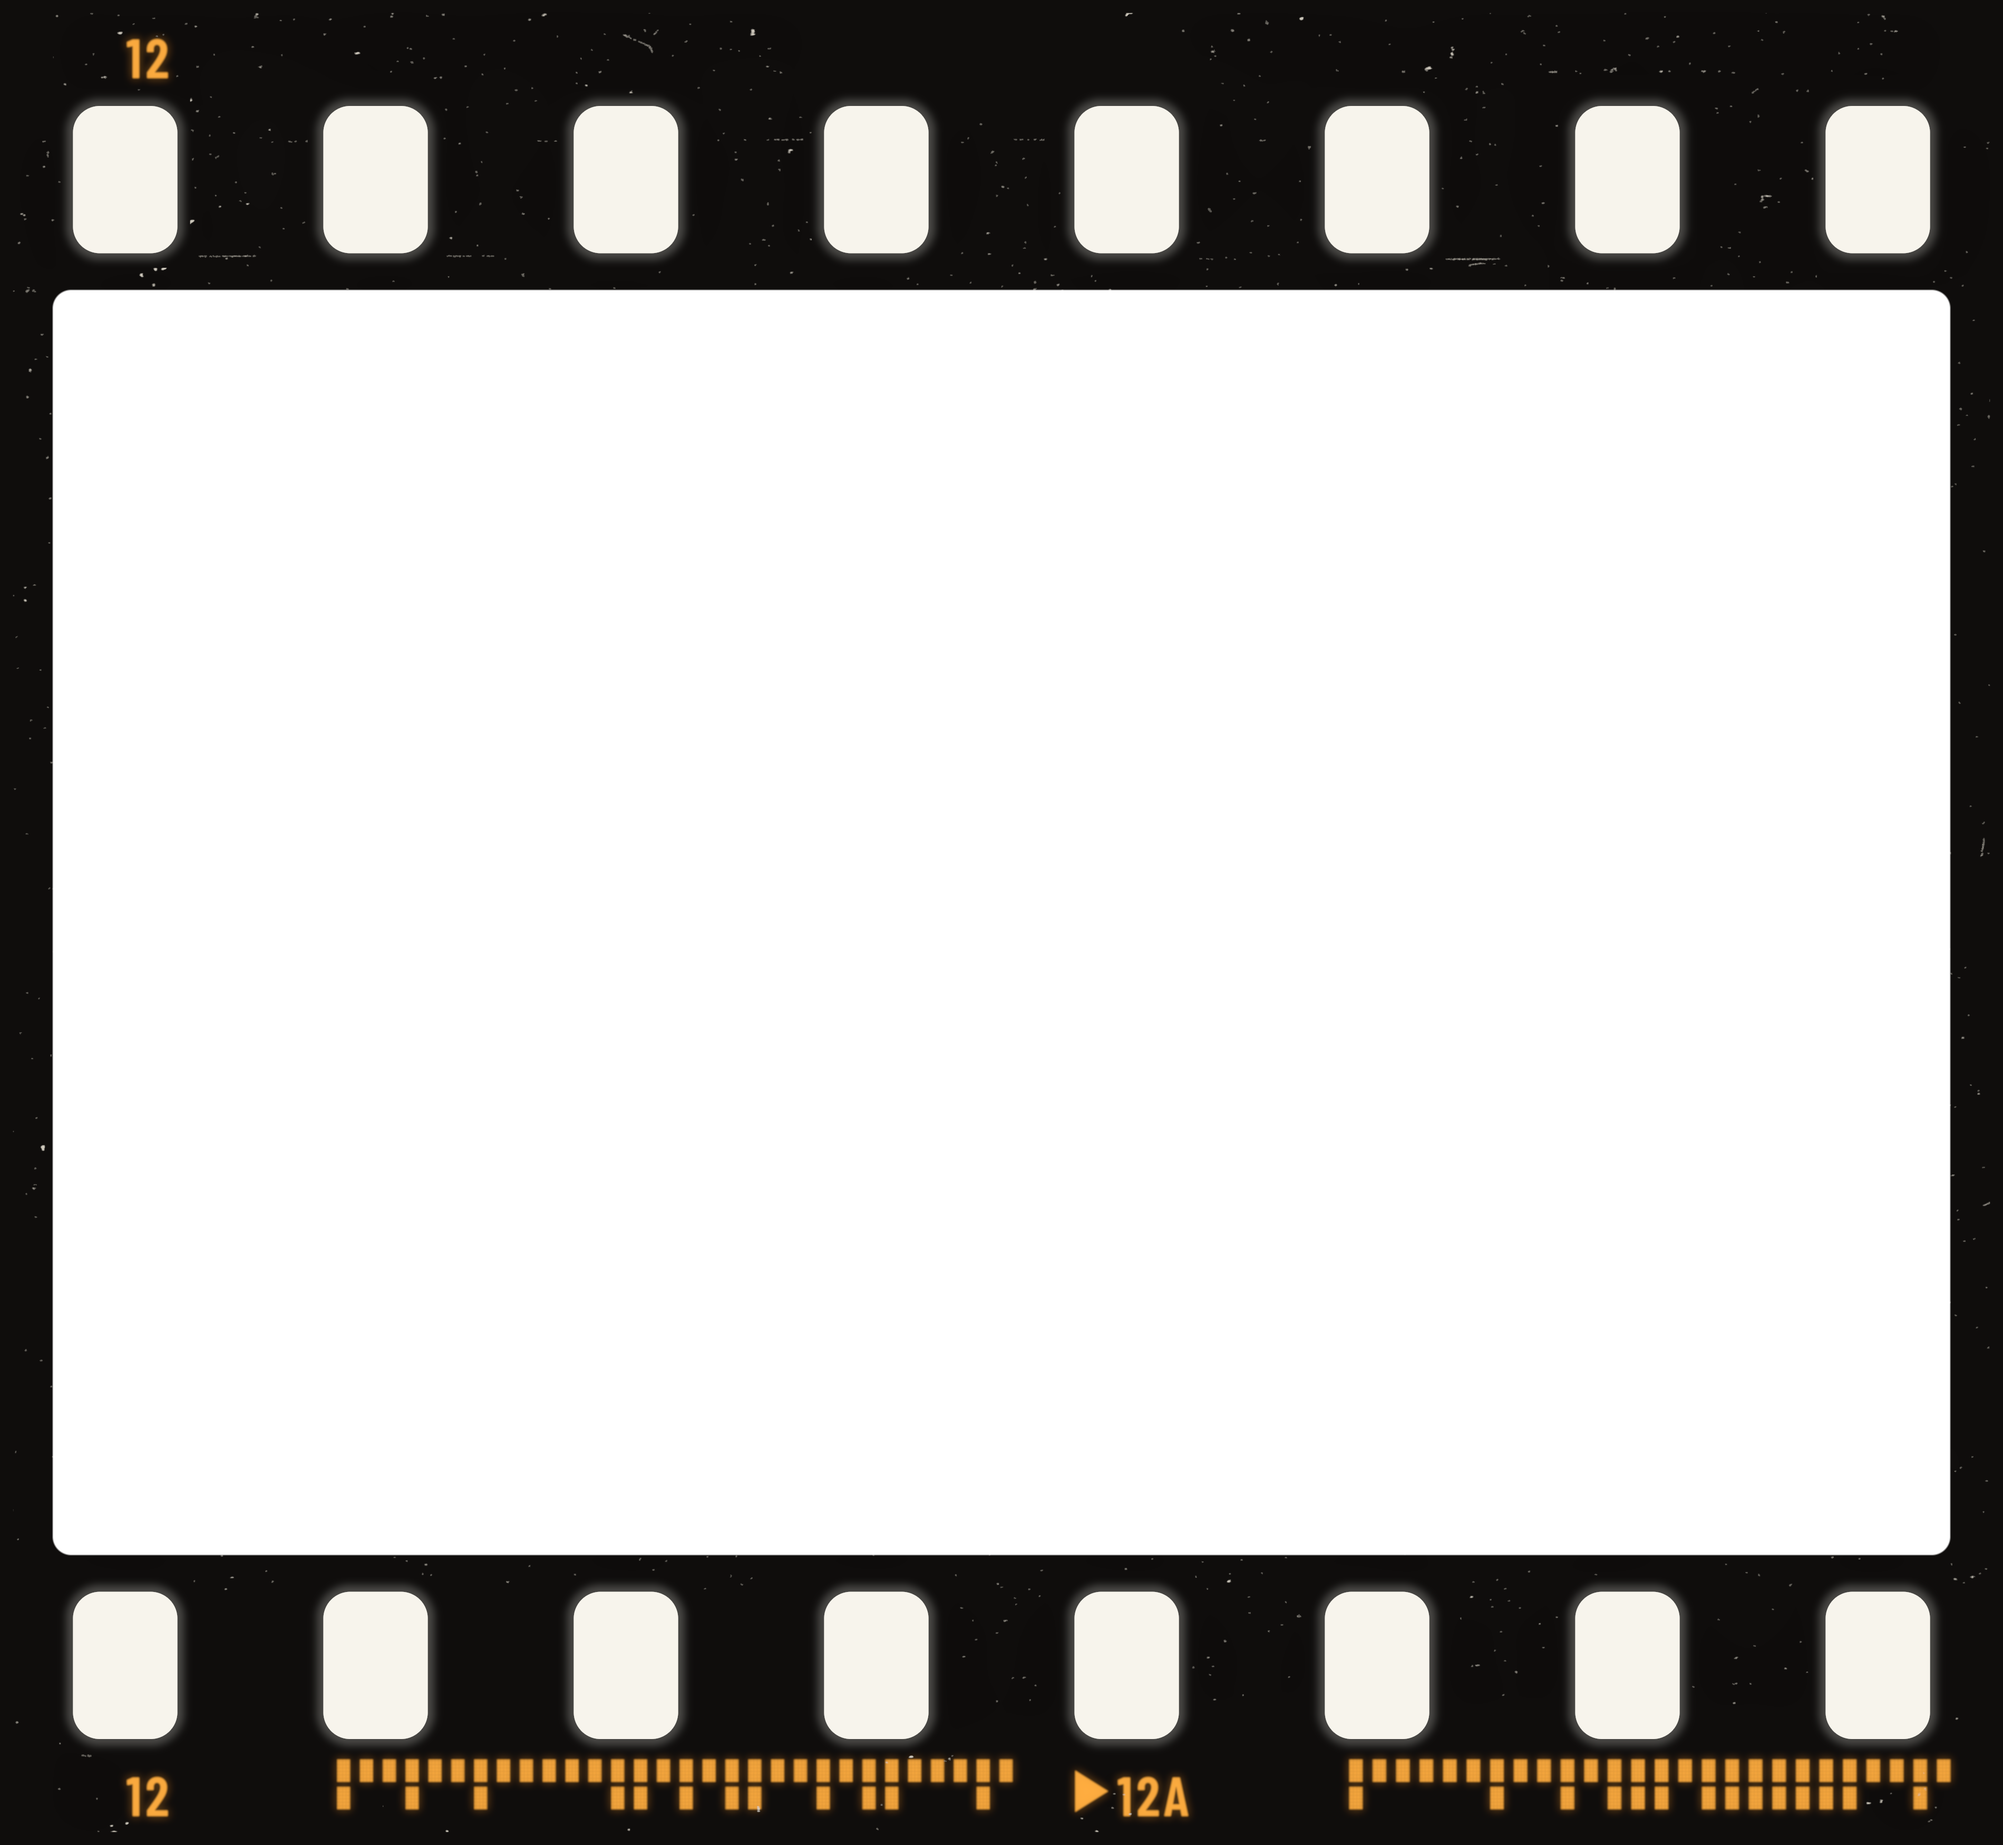
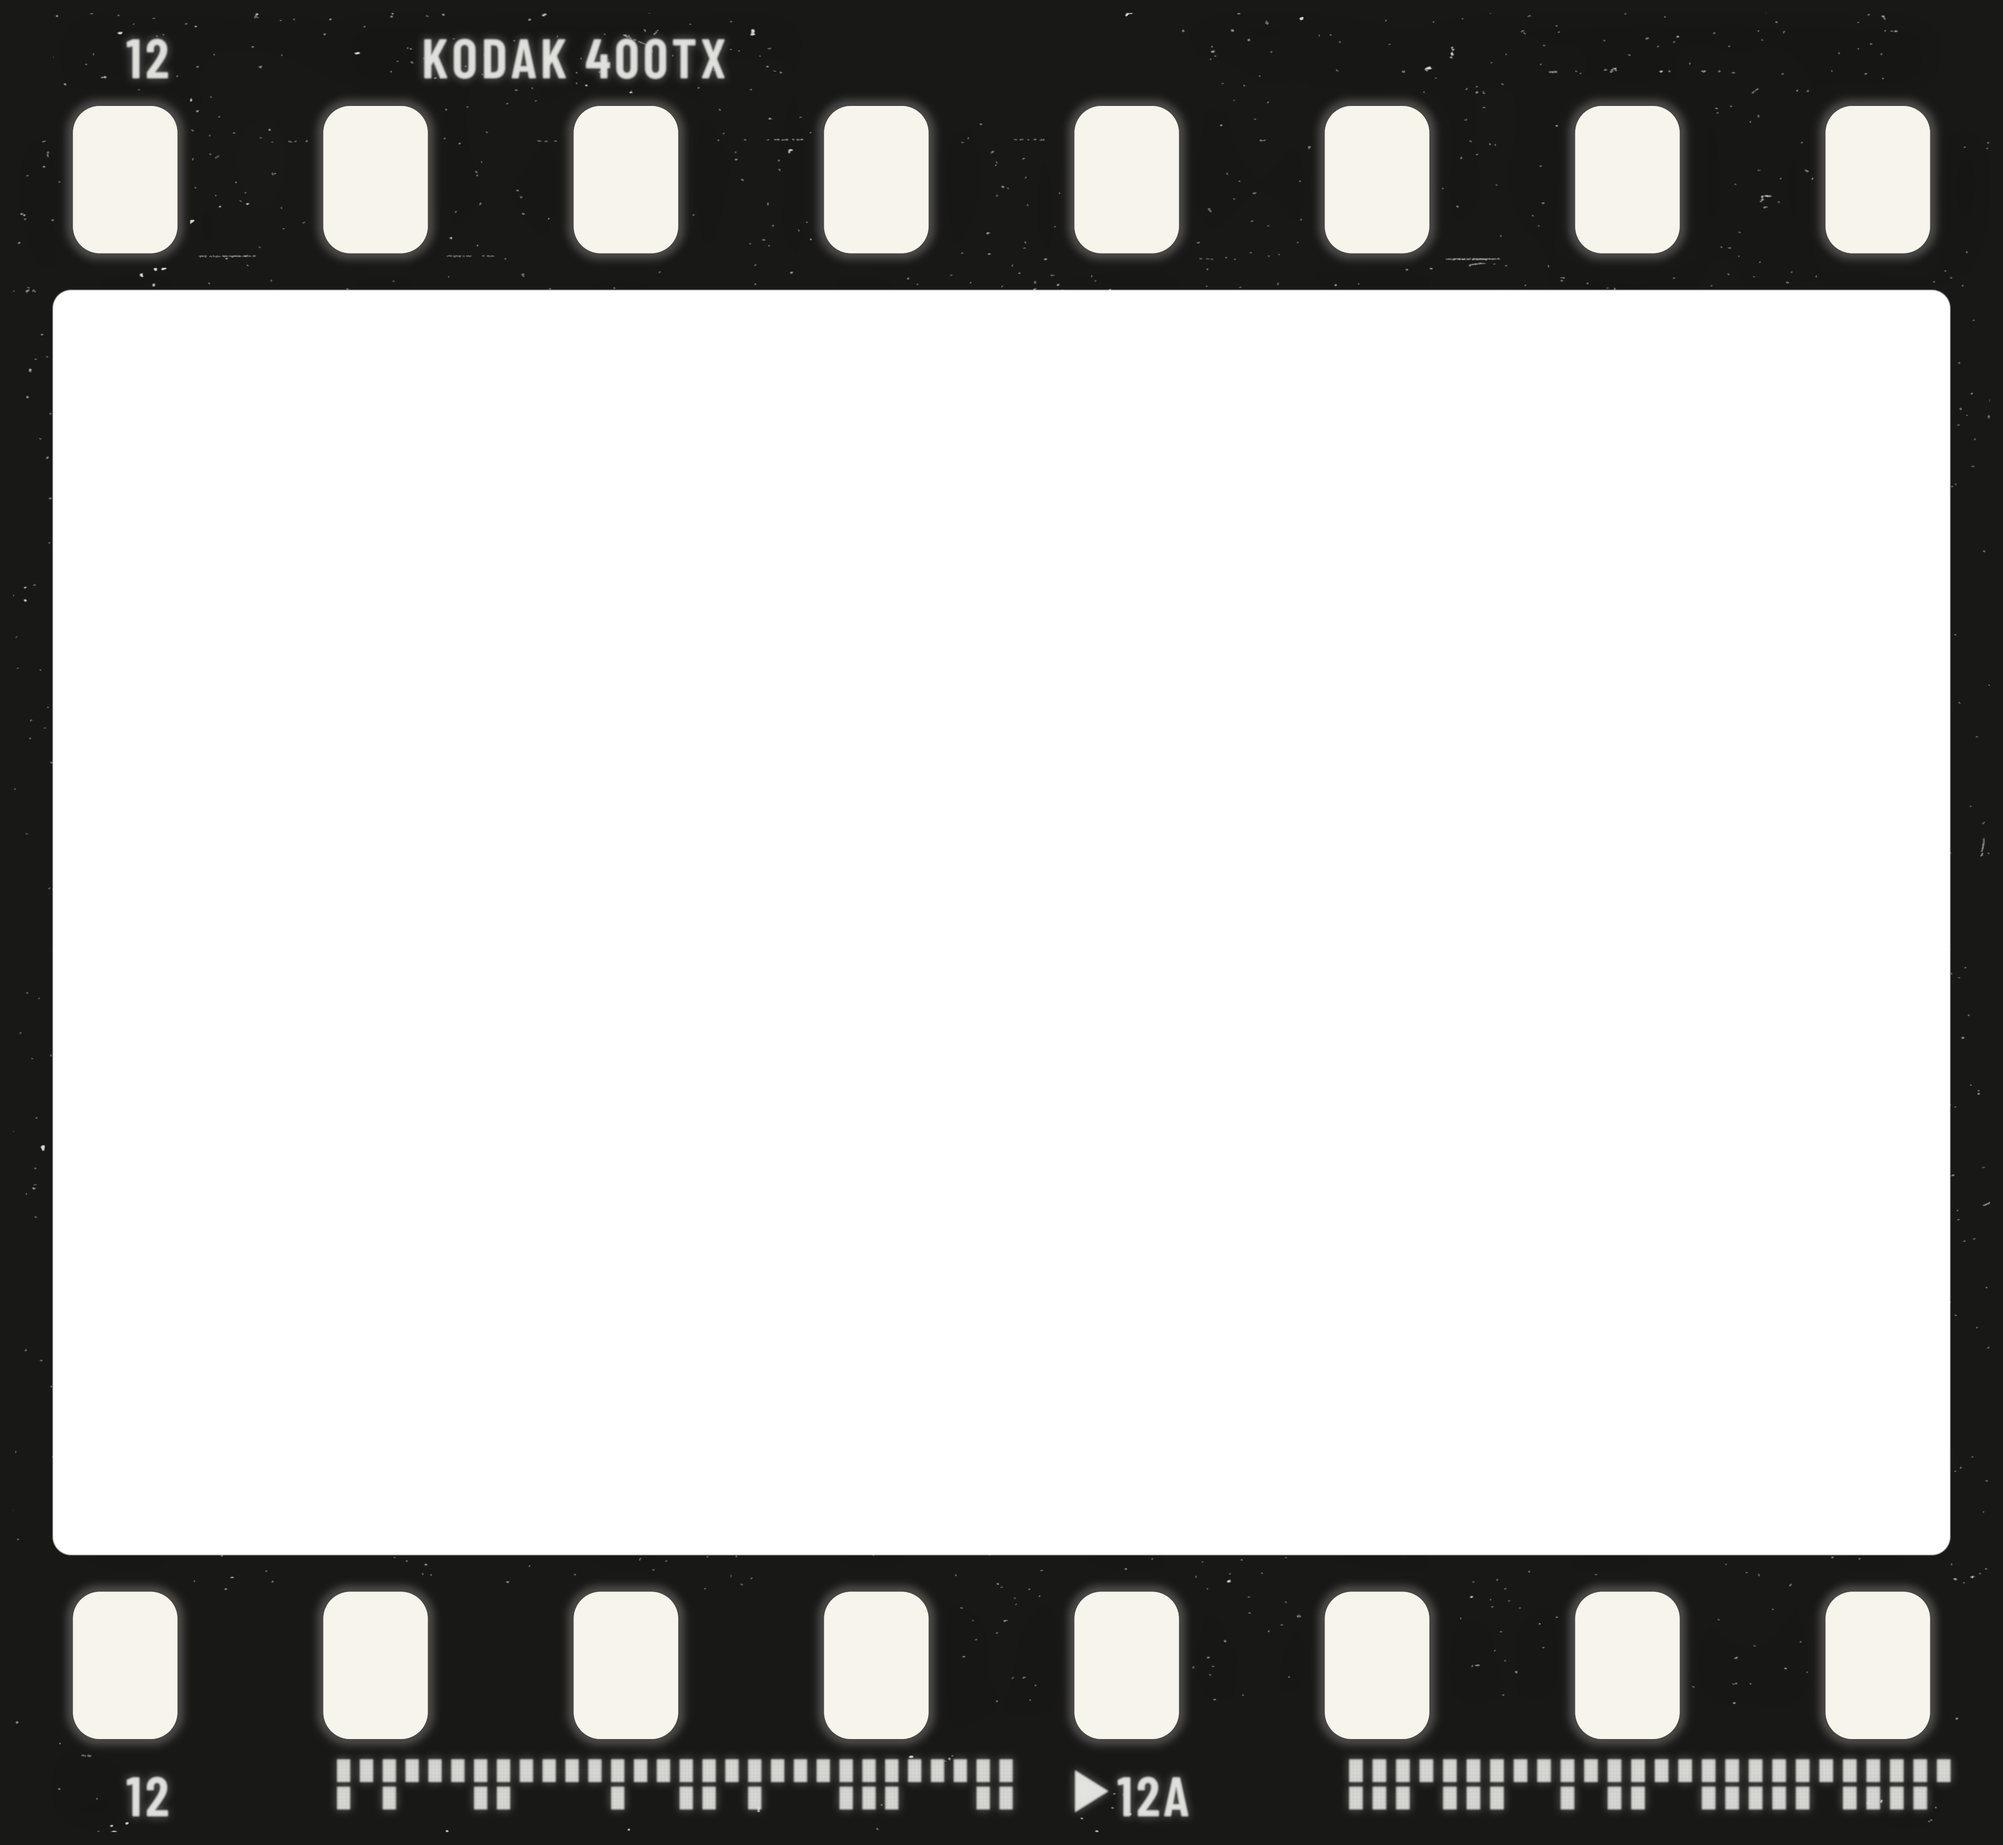
Print Kodak 400TX on Tri-X 400 35mm borders

diff --git a/crates/spektrafilm-io/src/border.rs b/crates/spektrafilm-io/src/border.rs
@@ -335,9 +335,8 @@ mod tests {
                 continue;
             }
             let stock = path.file_stem().unwrap().to_str().unwrap().to_owned();
-            // Tri-X Reversal 7266 isn't made in 35mm, and no 400TX edge print
-            // was sourced: both get the generic strip.
-            if stock == "kodak_trix" || stock == "kodak_trix400_d76_8min" {
+            // Tri-X Reversal 7266 isn't made in 35mm: use the generic strip.
+            if stock == "kodak_trix" {
                 assert!(STOCKS.iter().all(|(id, ..)| *id != stock));
                 continue;
             }

diff --git a/crates/spektrafilm-io/src/film35.rs b/crates/spektrafilm-io/src/film35.rs
@@ -129,6 +129,7 @@ pub const STOCKS: &[(&str, Kind, EdgePrint)] = &[
     ("kodak_portra_800", Kind::Negative, EdgePrint::Still(&["KODAK PORTRA 800"])),
     ("kodak_portra_800_push1", Kind::Negative, EdgePrint::Still(&["KODAK PORTRA 800"])),
     ("kodak_portra_800_push2", Kind::Negative, EdgePrint::Still(&["KODAK PORTRA 800"])),
+    ("kodak_trix400_d76_8min", Kind::BlackAndWhite, EdgePrint::Still(&["KODAK 400TX"])),
     ("kodak_ultramax_400", Kind::Negative, EdgePrint::Still(&["KODAK GC 400-9"])),
     (
         "kodak_verita_200d",

diff --git a/data/borders/README.md b/data/borders/README.md
@@ -42,10 +42,12 @@ strip), after changing the renderer or the material:
 
     cargo run --release -p spektrafilm-io --example film35_borders
 
-The `kodak_trix400_d76_8min.png` files are copies of `generic.png`.
-They intentionally carry no stock-specific edge print: no real 400TX border
-scan was sourced for the B&W expansion. The generator doesn't write them, so
-copy `generic.png` over them after regenerating.
+Tri-X 400 (`kodak_trix400_d76_8min`) uses the generated stock label
+`KODAK 400TX`, with the B&W rebate and ink colours. Both preview formats are
+generated by the same stock table as the export renderer. This identifies
+the camera stock; the D-76 processing recipe is not printed on the film.
+The lettering is a reconstruction over the shared scanned material, not a
+new stock-specific 400TX border scan. Tri-X 7266 reversal remains generic.
 
 The edge print uses Barlow Condensed (SIL OFL, in
 `crates/spektrafilm-io/fonts`).
